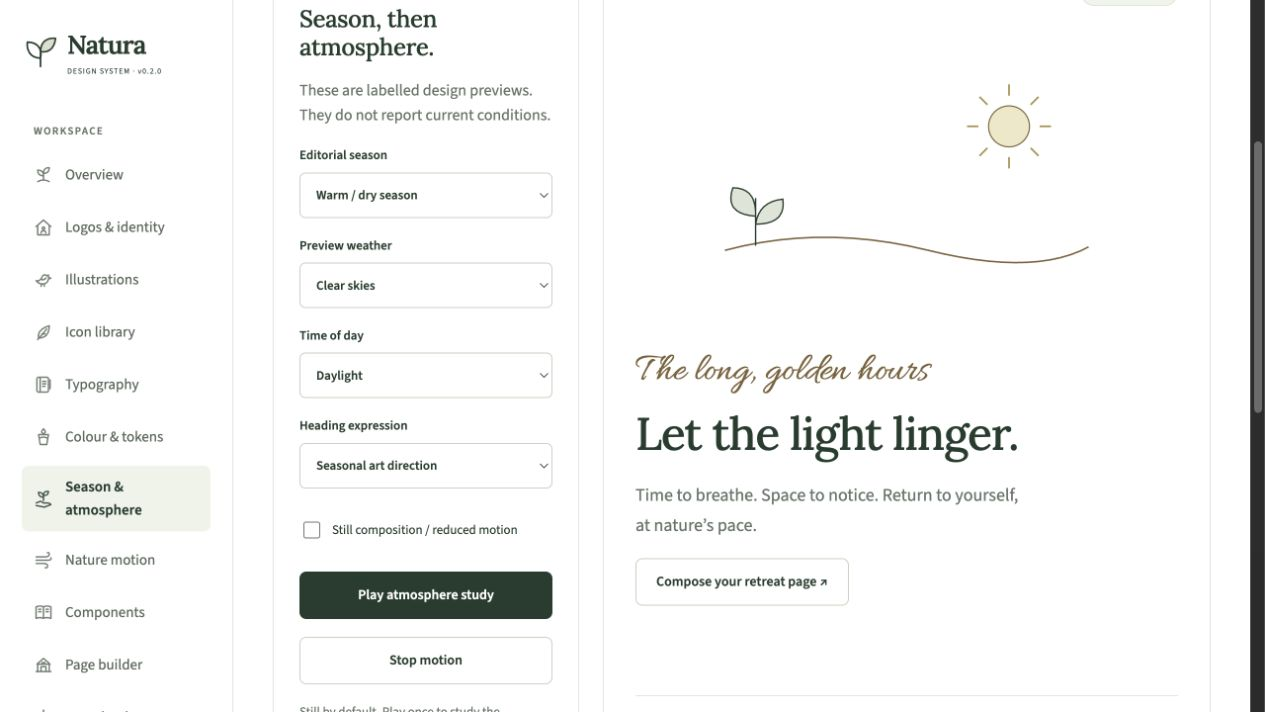
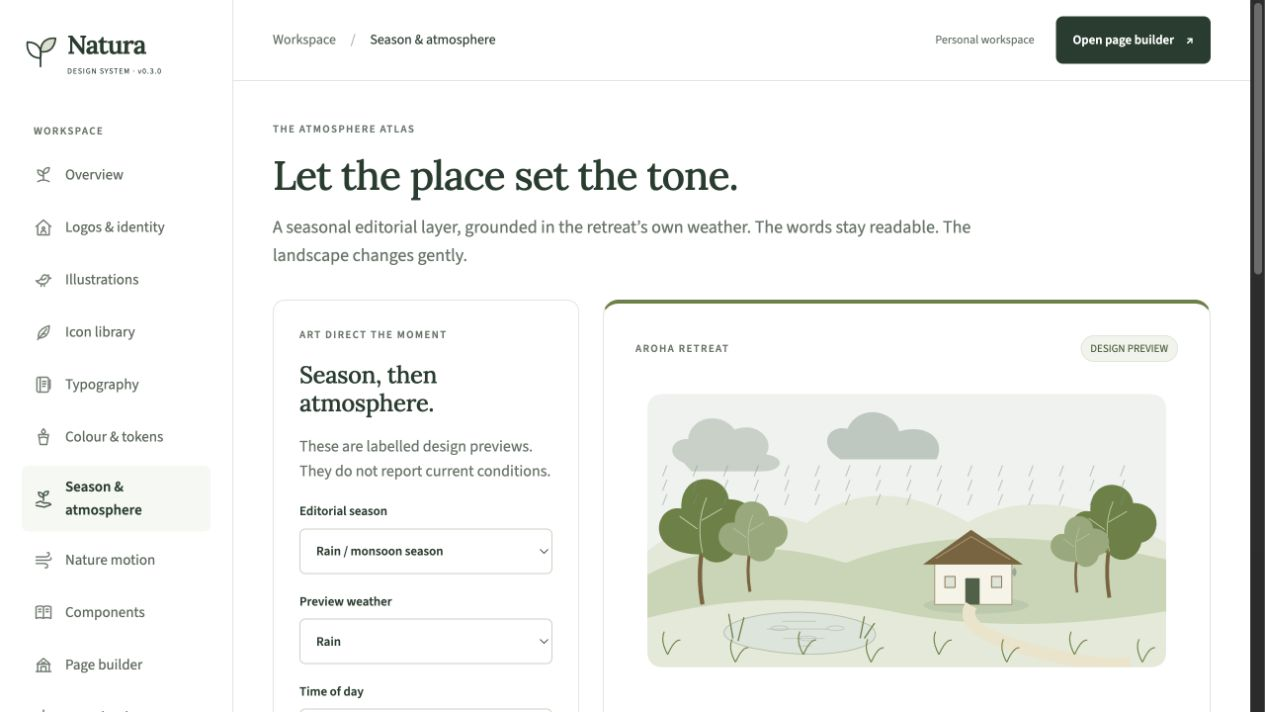
Record Natura 0.3.0 live verification and motion review

diff --git a/skills/service-natura/continuation.md b/skills/service-natura/continuation.md
@@ -13,3 +13,5 @@ GitHub delivery: public repository generated from the verified template. Impleme
 Current feature branch: feat/living-motion-collection. Expanded to twelve literal nature studies, grouped by family. Eight new studies have independent anatomy and ordered phases. Weather is now a layered retreat scene with condition-specific physics and observed night lighting. The component workbench uses native checkbox/details/email/link patterns with targeted short CSS feedback, a constrained preview and context notes. Complete motion reference: public/docs/Natura-Motion-Catalogue.html; original PDF remains the foundational four-study reference. Local tests and browser verification are being recorded for this release. Synthetic weather, fixed location, Aroha-only custom-material terms and disabled production weather/telemetry remain unchanged.
 
 Validation: 18 application tests and 21 foundation tests pass locally; discovery readiness passes. All twelve study endpoints were exercised in the browser; all eight additions were scrubbed mid-timeline and fern keyboard play/pause worked. Native selection, keyboard FAQ disclosure and invalid-email blur feedback were verified. Narrow component layout at 378 CSS px had no outer horizontal overflow; preview height now follows its content. Eight new SVGs were rendered together for visual inspection. OS/manual reduced-motion paths, cancellation and observed night palettes retain explicit safeguards. Production weather remains a labelled synthetic preview.
+
+GitHub PR: https://github.com/ArohaRetreat/natura/pull/4, closes issue #3. Implementation 51847d32d4a51a09214fa96bc2850ab9953f4795 passed both actual GitHub suites. Source review checked scene ownership/timing/cancellation, observed night lighting, native semantics, hover/reduced-motion/keyboard handling and iframe observer disposal; no unresolved implementation finding remained. No independent reviewer approval is claimed. Firebase 0.3.0 is deployed: all 173 files matched local SHA-256, /design/ loaded and root stayed 404. Live browser checks confirmed the twelve-study catalogue, final fern state and new component workbench with no error/warning logs. Weather variants played/stopped locally, night rain retained the dark palette, and reduced-motion bloom completed statically. Screenshots and the live manifest are in release-evidence/. This evidence-only update requires fresh checks before merge; use PR #4 for final merge/check state.
